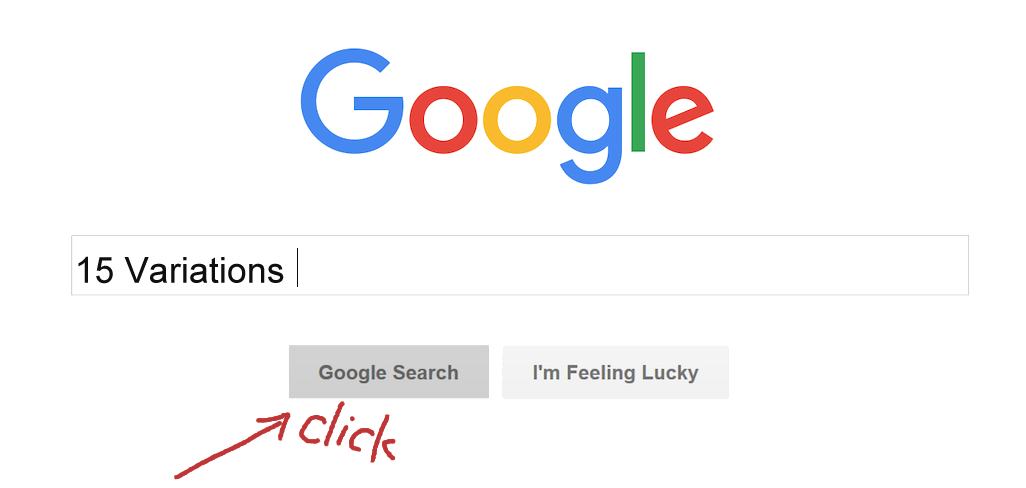
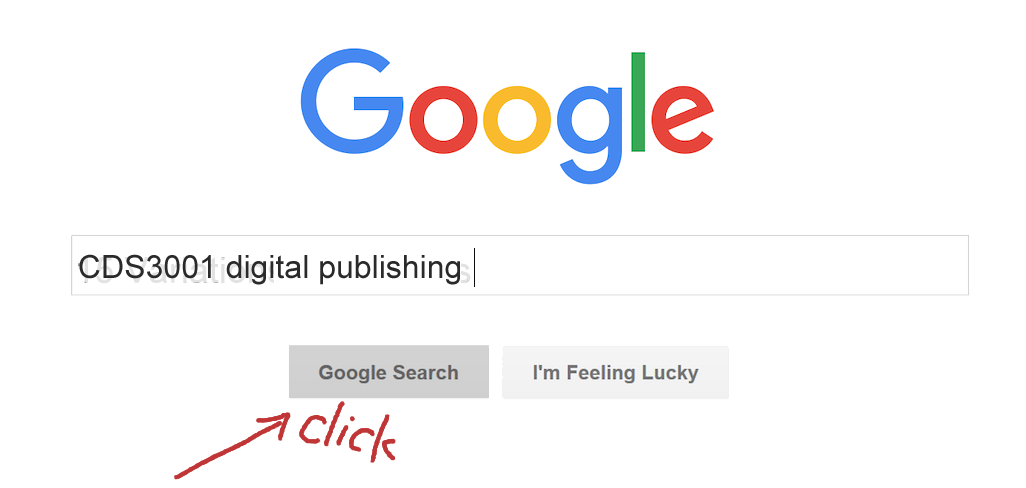
49

Changed region(s): [[0.0624, 0.5225, 0.4678, 0.584]]

diff --git a/index.html b/index.html
@@ -7,7 +7,8 @@
 	<style media="screen">
 
 
-	body{background-color: white;}
+	body{background-color: white;
+	}
 
 
 		.yumeng{font-family: lucida;
@@ -75,7 +76,7 @@ position: absolute;
 		</div>
 
 
-<h5>15 Variations&nbsp;&nbsp;&nbsp;&nbsp;&nbsp;&nbsp;&nbsp;&nbsp;
+<h5>CDS3001 digital publishing&nbsp;&nbsp;&nbsp;&nbsp;&nbsp;&nbsp;&nbsp;&nbsp;
 	&nbsp;&nbsp;&nbsp;&nbsp;&nbsp;&nbsp;&nbsp;&nbsp;&nbsp;&nbsp;&nbsp;&nbsp;
 	&nbsp;&nbsp;&nbsp;&nbsp;&nbsp;&nbsp;&nbsp;&nbsp;&nbsp;&nbsp;&nbsp;&nbsp;
 	&nbsp;&nbsp;&nbsp;&nbsp;&nbsp;&nbsp;&nbsp;&nbsp;&nbsp;&nbsp;&nbsp;&nbsp;
